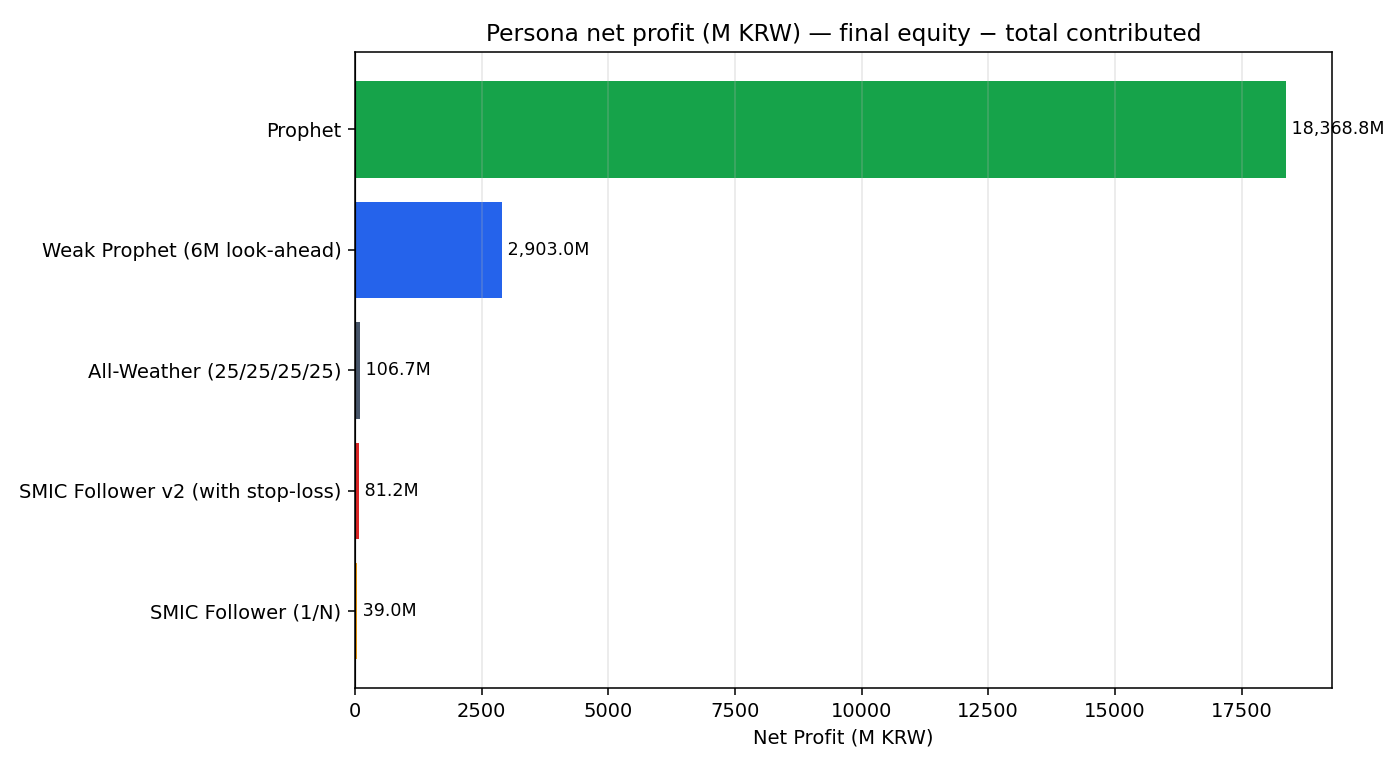
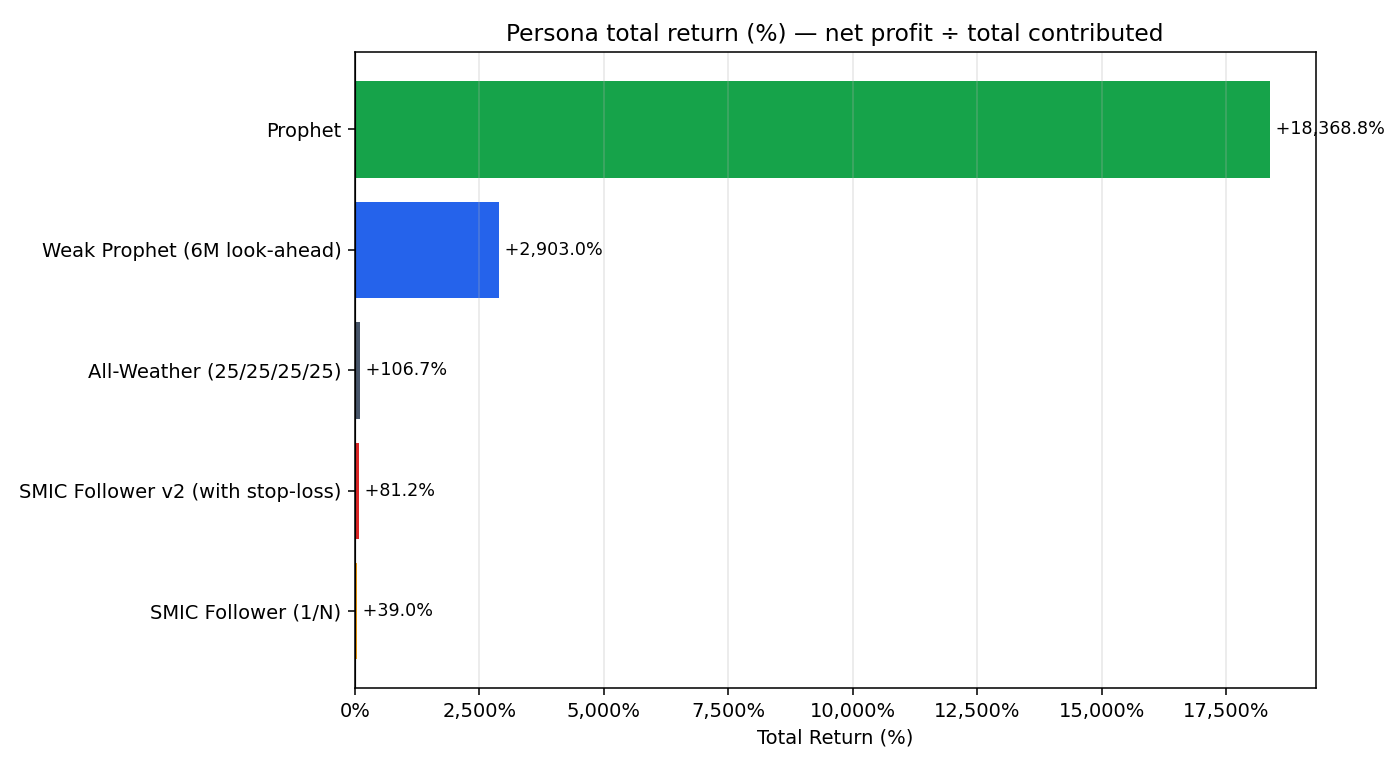
chore(viz): switch equity / net-profit charts to % return
equity_curves.png and net_profit_bar.png used to plot M KRW on the Y
axis, which mixed two stories — "how big is the absolute number" and
"how well did the strategy convert deposits into return". For a
DCA-with-escalation savings plan that runs to ~100M KRW total
contributed across all personas, the second story is the comparable
one. Switch the Y/X axes to:

- equity_curves: equity ÷ cumulative deposits − 1, log Y, decade +
  2×/5× intermediate ticks formatted as "+X%". Breakeven (+0%) shown
  as a dashed line. Drops the now-redundant cumulative-deposits dashed
  overlay (it was just a flat 0% line in the new view).
- net_profit_bar: net_profit ÷ total contributed × 100, sorted, with
  signed "+X.X%" annotations and "X%" X-axis tick formatter.

Drawdowns chart was already in %, no change. README narrative + chart
captions updated to match.

diff --git a/src/snusmic_pipeline/sim/visualize.py b/src/snusmic_pipeline/sim/visualize.py
@@ -22,6 +22,7 @@ import matplotlib
 matplotlib.use("Agg")  # always headless; CI and CLI use the same backend.
 
 import matplotlib.pyplot as plt  # noqa: E402
+import matplotlib.ticker as mticker  # noqa: E402
 import pandas as pd  # noqa: E402
 
 from .contracts import SimulationResult  # noqa: E402
@@ -35,26 +36,43 @@ PERSONA_COLORS = {
 }
 
 
+def _multiplier_to_pct_label(value: float, _pos: int) -> str:
+    """Format a wealth multiplier (1.0 = breakeven) as a signed percent return."""
+    if value <= 0:
+        return ""
+    pct = (value - 1.0) * 100.0
+    if pct == 0:
+        return "+0%"
+    if abs(pct) >= 1000:
+        return f"+{pct:,.0f}%" if pct > 0 else f"{pct:,.0f}%"
+    return f"+{pct:.0f}%" if pct > 0 else f"{pct:.0f}%"
+
+
 def plot_equity_curves(result: SimulationResult, out_path: Path) -> Path:
-    """Equity-curve overlay; one subplot, one line per persona."""
+    """Cumulative return (% vs cumulative deposits) over time, log Y.
+
+    The plotted quantity is ``equity / cumulative_contributions`` — i.e. the
+    wealth multiplier on every won the user has deposited up to that date,
+    which is what a brokerage app shows as "your account is up X%". Log Y
+    so a constant compound growth rate reads as a straight line and
+    Prophet's 184× outcome doesn't crush mid-tier personas visually.
+    """
     if not result.equity_points:
         raise ValueError("SimulationResult has no equity points to plot.")
     by_persona: dict[str, list[tuple[date, float]]] = defaultdict(list)
-    contributions: list[tuple[date, float]] = []
-    contribution_seen: set[date] = set()
     for ep in result.equity_points:
-        by_persona[ep.persona].append((ep.date, ep.equity_krw))
-        if ep.date not in contribution_seen:
-            contributions.append((ep.date, ep.contributed_capital_krw))
-            contribution_seen.add(ep.date)
-    contributions.sort(key=lambda x: x[0])
+        if ep.contributed_capital_krw > 0:
+            mult = ep.equity_krw / ep.contributed_capital_krw
+        else:
+            mult = 1.0
+        by_persona[ep.persona].append((ep.date, mult))
 
     fig, ax = plt.subplots(figsize=(12, 6))
     persona_labels = {s.persona: s.label for s in result.summaries}
     for persona, points in by_persona.items():
         points.sort(key=lambda x: x[0])
         xs = [p[0] for p in points]
-        ys = [p[1] / 1e6 for p in points]  # KRW → M KRW
+        ys = [p[1] for p in points]
         ax.plot(
             xs,
             ys,
@@ -62,15 +80,19 @@ def plot_equity_curves(result: SimulationResult, out_path: Path) -> Path:
             color=PERSONA_COLORS.get(persona),
             linewidth=1.6,
         )
-    if contributions:
-        cx = [c[0] for c in contributions]
-        cy = [c[1] / 1e6 for c in contributions]
-        ax.plot(cx, cy, label="Cumulative deposits", color="black", linestyle="--", linewidth=1.0)
+    ax.axhline(1.0, color="black", linestyle="--", linewidth=0.9, alpha=0.6, label="Breakeven (+0%)")
 
     ax.set_yscale("log")
-    ax.set_title("Persona equity curves (log scale, M KRW)")
+    # Decades plus 2× and 5× intermediates so mid-tier personas (+30%, +100%,
+    # +400%) get readable tick labels instead of disappearing into the gap
+    # between +0% and +900%.
+    ax.yaxis.set_major_locator(mticker.LogLocator(base=10.0, subs=(1.0, 2.0, 5.0), numticks=12))
+    ax.yaxis.set_minor_locator(mticker.LogLocator(base=10.0, subs=(3.0, 4.0, 6.0, 7.0, 8.0, 9.0), numticks=12))
+    ax.yaxis.set_major_formatter(mticker.FuncFormatter(_multiplier_to_pct_label))
+    ax.yaxis.set_minor_formatter(mticker.NullFormatter())
+    ax.set_title("Persona cumulative return — equity ÷ cumulative deposits (log scale)")
     ax.set_xlabel("Date")
-    ax.set_ylabel("Equity (M KRW, log)")
+    ax.set_ylabel("Cumulative return")
     ax.grid(True, which="both", alpha=0.3)
     ax.legend(loc="upper left", fontsize=9)
     fig.autofmt_xdate()
@@ -82,28 +104,42 @@ def plot_equity_curves(result: SimulationResult, out_path: Path) -> Path:
 
 
 def plot_net_profit_bars(result: SimulationResult, out_path: Path) -> Path:
-    """Bar chart of final net profit per persona (sorted ascending)."""
+    """Bar chart of final total return (%) per persona (sorted ascending).
+
+    Total return is ``net_profit / total_contributed`` — i.e. "for every
+    won deposited, how many won did the persona end up with on top".
+    Comparable across personas and immune to the absolute scale of the
+    savings plan.
+    """
     if not result.summaries:
         raise ValueError("SimulationResult has no summaries to plot.")
-    summaries = sorted(result.summaries, key=lambda s: s.net_profit_krw)
+
+    def total_return_pct(s) -> float:
+        if s.total_contributed_krw <= 0:
+            return 0.0
+        return (s.net_profit_krw / s.total_contributed_krw) * 100.0
+
+    summaries = sorted(result.summaries, key=total_return_pct)
     labels = [s.label for s in summaries]
-    values = [s.net_profit_krw / 1e6 for s in summaries]
+    values = [total_return_pct(s) for s in summaries]
     colors = [PERSONA_COLORS.get(s.persona, "#6b7280") for s in summaries]
 
     fig, ax = plt.subplots(figsize=(10, 5.5))
     bars = ax.barh(labels, values, color=colors)
     for bar, value in zip(bars, values, strict=True):
+        sign = "+" if value >= 0 else ""
         ax.text(
             bar.get_width(),
             bar.get_y() + bar.get_height() / 2,
-            f" {value:,.1f}M",
+            f" {sign}{value:,.1f}%",
             va="center",
             ha="left" if value >= 0 else "right",
             fontsize=9,
         )
     ax.axvline(0, color="black", linewidth=0.6)
-    ax.set_title("Persona net profit (M KRW) — final equity − total contributed")
-    ax.set_xlabel("Net Profit (M KRW)")
+    ax.set_title("Persona total return (%) — net profit ÷ total contributed")
+    ax.set_xlabel("Total Return (%)")
+    ax.xaxis.set_major_formatter(mticker.FuncFormatter(lambda v, _p: f"{v:,.0f}%"))
     ax.grid(True, axis="x", alpha=0.3)
     fig.tight_layout()
     out_path.parent.mkdir(parents=True, exist_ok=True)

diff --git a/README.md b/README.md
@@ -126,7 +126,7 @@
 
 > 모든 평가금/순이익은 **share-based** 회계 — 정수 주식 + 가중평균원가 + 매수 0.015% 수수료 + 매도 0.18% 거래세 + 0.05% 슬리피지가 모든 체결에 적용된 결과입니다. 증권사 앱에서 보는 숫자와 같은 의미를 갖습니다.
 >
-> equity curve는 **로그 Y 축** — 직선의 기울기가 곧 CAGR이고, 5년 동안 100→1,000 (10x) 과 1,000→10,000 (10x)이 같은 시각적 거리로 보입니다. 마크-투-마켓은 종목 close가 결측되는 휴장/거래정지일에도 직전 close를 forward-fill (`board.asof`) 해서, 기존에 있던 가짜 −30% 스파이크를 제거했습니다.
+> equity curve / net profit 차트는 **% 수익률 기준** — 누적 적립금 대비 평가금 비율 (`equity / cumulative_deposits − 1`) 입니다. 같은 1억을 적립한 가상의 투자자 5명을 비교한다는 의미. equity curve의 Y축은 **로그 스케일** (눈금 라벨은 `+0% / +100% / +1,000% / +10,000%` 형태)이라 직선의 기울기가 곧 CAGR이고 Prophet의 184× outcome 이 mid-tier 페르소나의 +30~+150% 영역을 가리지 않습니다. 마크-투-마켓은 종목 close가 결측되는 휴장/거래정지일에도 직전 close를 forward-fill (`board.asof`) 해서, 기존에 있던 가짜 −30% 스파이크를 제거했습니다.
 
 핵심 관찰:
 
@@ -440,8 +440,8 @@ def test_prophet_concentrates_on_realised_winner(...):
 │       ├── summary.csv                    #     페르소나별 종합 통계
 │       ├── equity_daily.csv               #     일별 mark-to-market
 │       ├── trades.csv                     #     매수/매도 원장
-│       ├── equity_curves.png              #     5개 페르소나 equity overlay
-│       ├── net_profit_bar.png             #     순이익 막대 차트
+│       ├── equity_curves.png              #     5개 페르소나 % 수익률 overlay (log Y)
+│       ├── net_profit_bar.png             #     총 수익률 막대 차트 (%)
 │       └── drawdowns.png                  #     낙폭 곡선
 │
 ├── docs/
@@ -728,8 +728,8 @@ smic_follower_v2,2024-09-02,A.KS,sell,12,55310.0,663720.0,99.56,1194.70,...,stop
 
 ### 9-7. PNG 시각화
 
-- `equity_curves.png` (1680×840): 5개 페르소나 + 누적 적립금 점선 overlay (log Y)
-- `net_profit_bar.png` (1400×770): 순이익 막대
+- `equity_curves.png` (1680×840): 5개 페르소나 누적 수익률 (`equity / cumulative_deposits − 1`) overlay, log Y, breakeven(+0%) 점선 표시
+- `net_profit_bar.png` (1400×770): 총 수익률 (`net_profit / total_contributed`) 막대, 정렬됨
 - `drawdowns.png` (1680×700): 낙폭 곡선
 - `portfolio_composition.png` (≈1820×2100): 페르소나별 시점별 보유 비중 stacked area
 